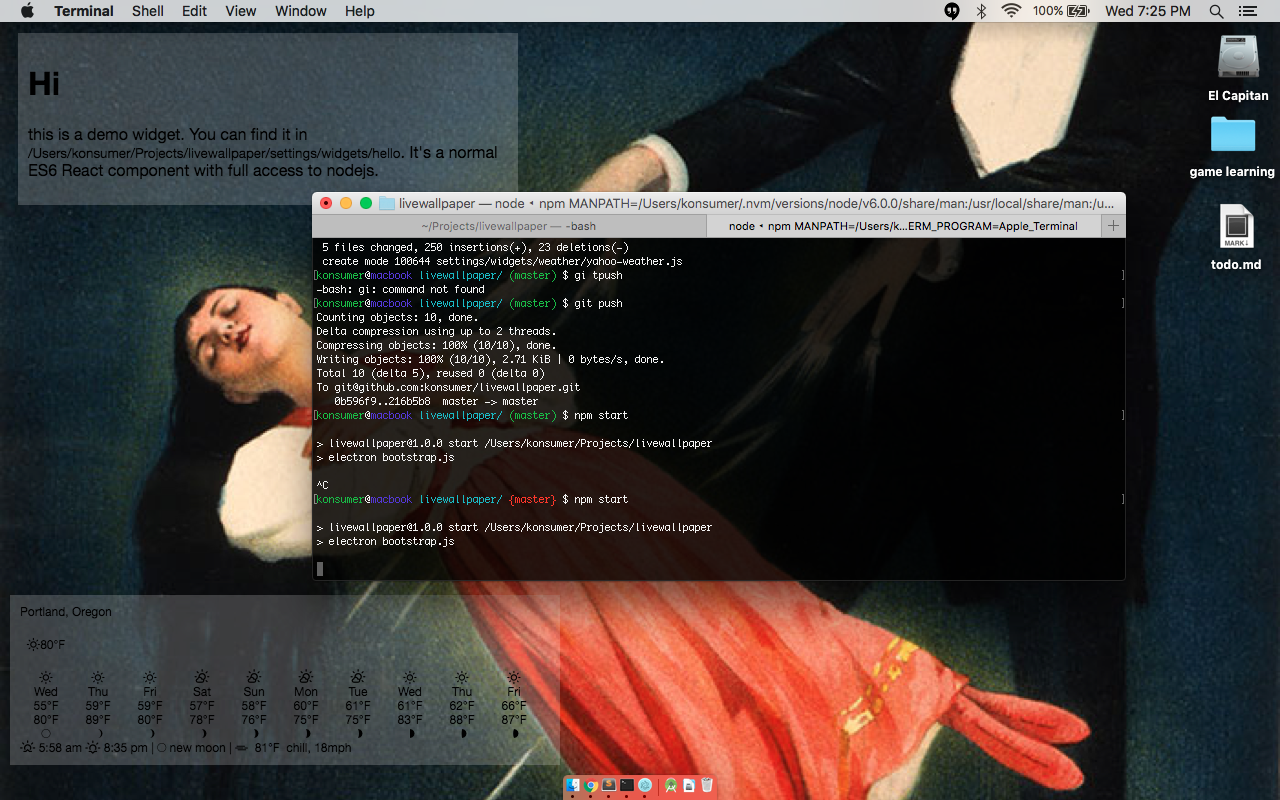
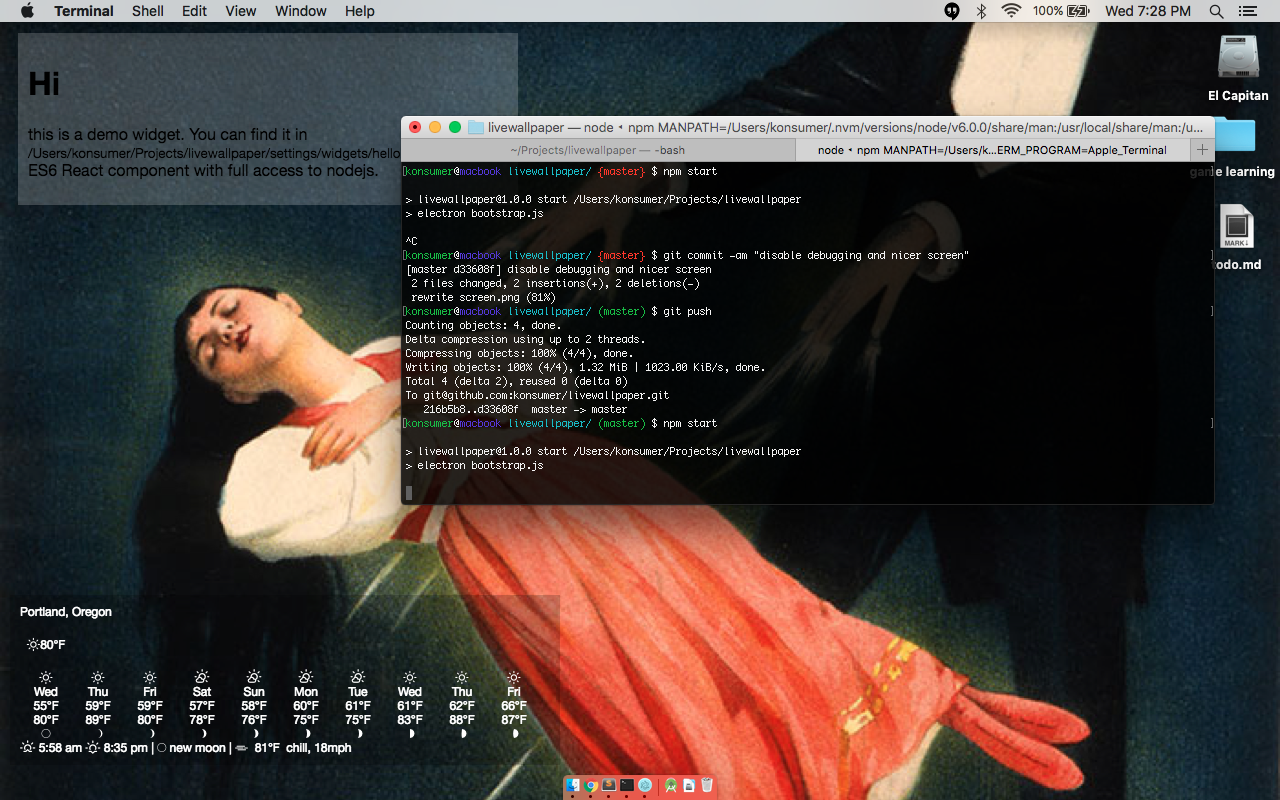
minor colro tweak on weather and screen

Changed region(s): [[0.0, 0.125, 0.9688, 0.9688], [0.6875, 0.6562, 0.75, 0.75], [0.9062, 0.0, 0.9375, 0.0312]]

diff --git a/settings/widgets/weather/style.css b/settings/widgets/weather/style.css
@@ -8,8 +8,8 @@
   bottom: 10px;
   left: 10px;
   font-size: 12px;
-  background-color: rgba(255, 255, 255, 0.2);
-  color: #000;
+  background-color: rgba(0, 0, 0, 0.2);
+  color: #fff;
 }
 
 .Weather .item {
